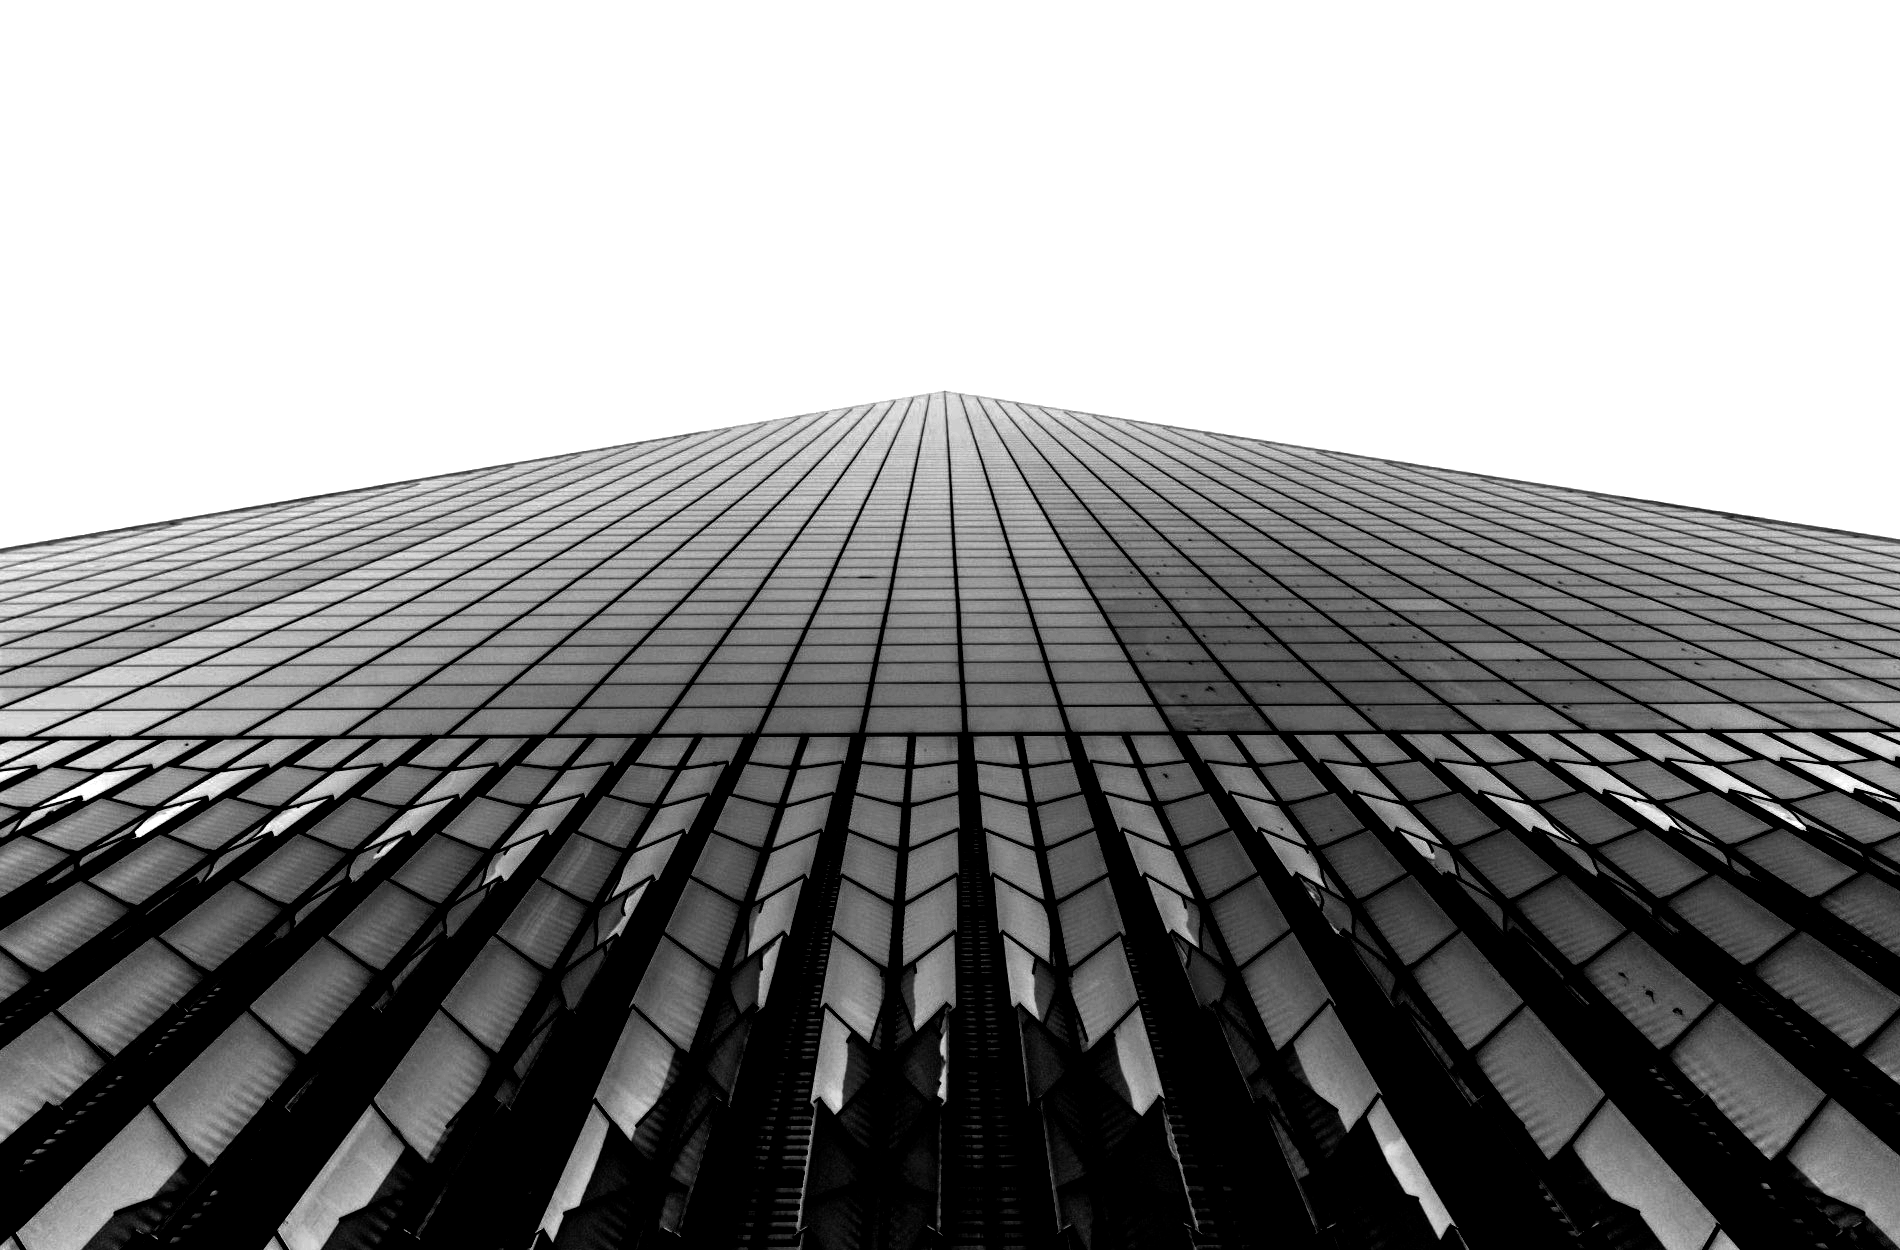
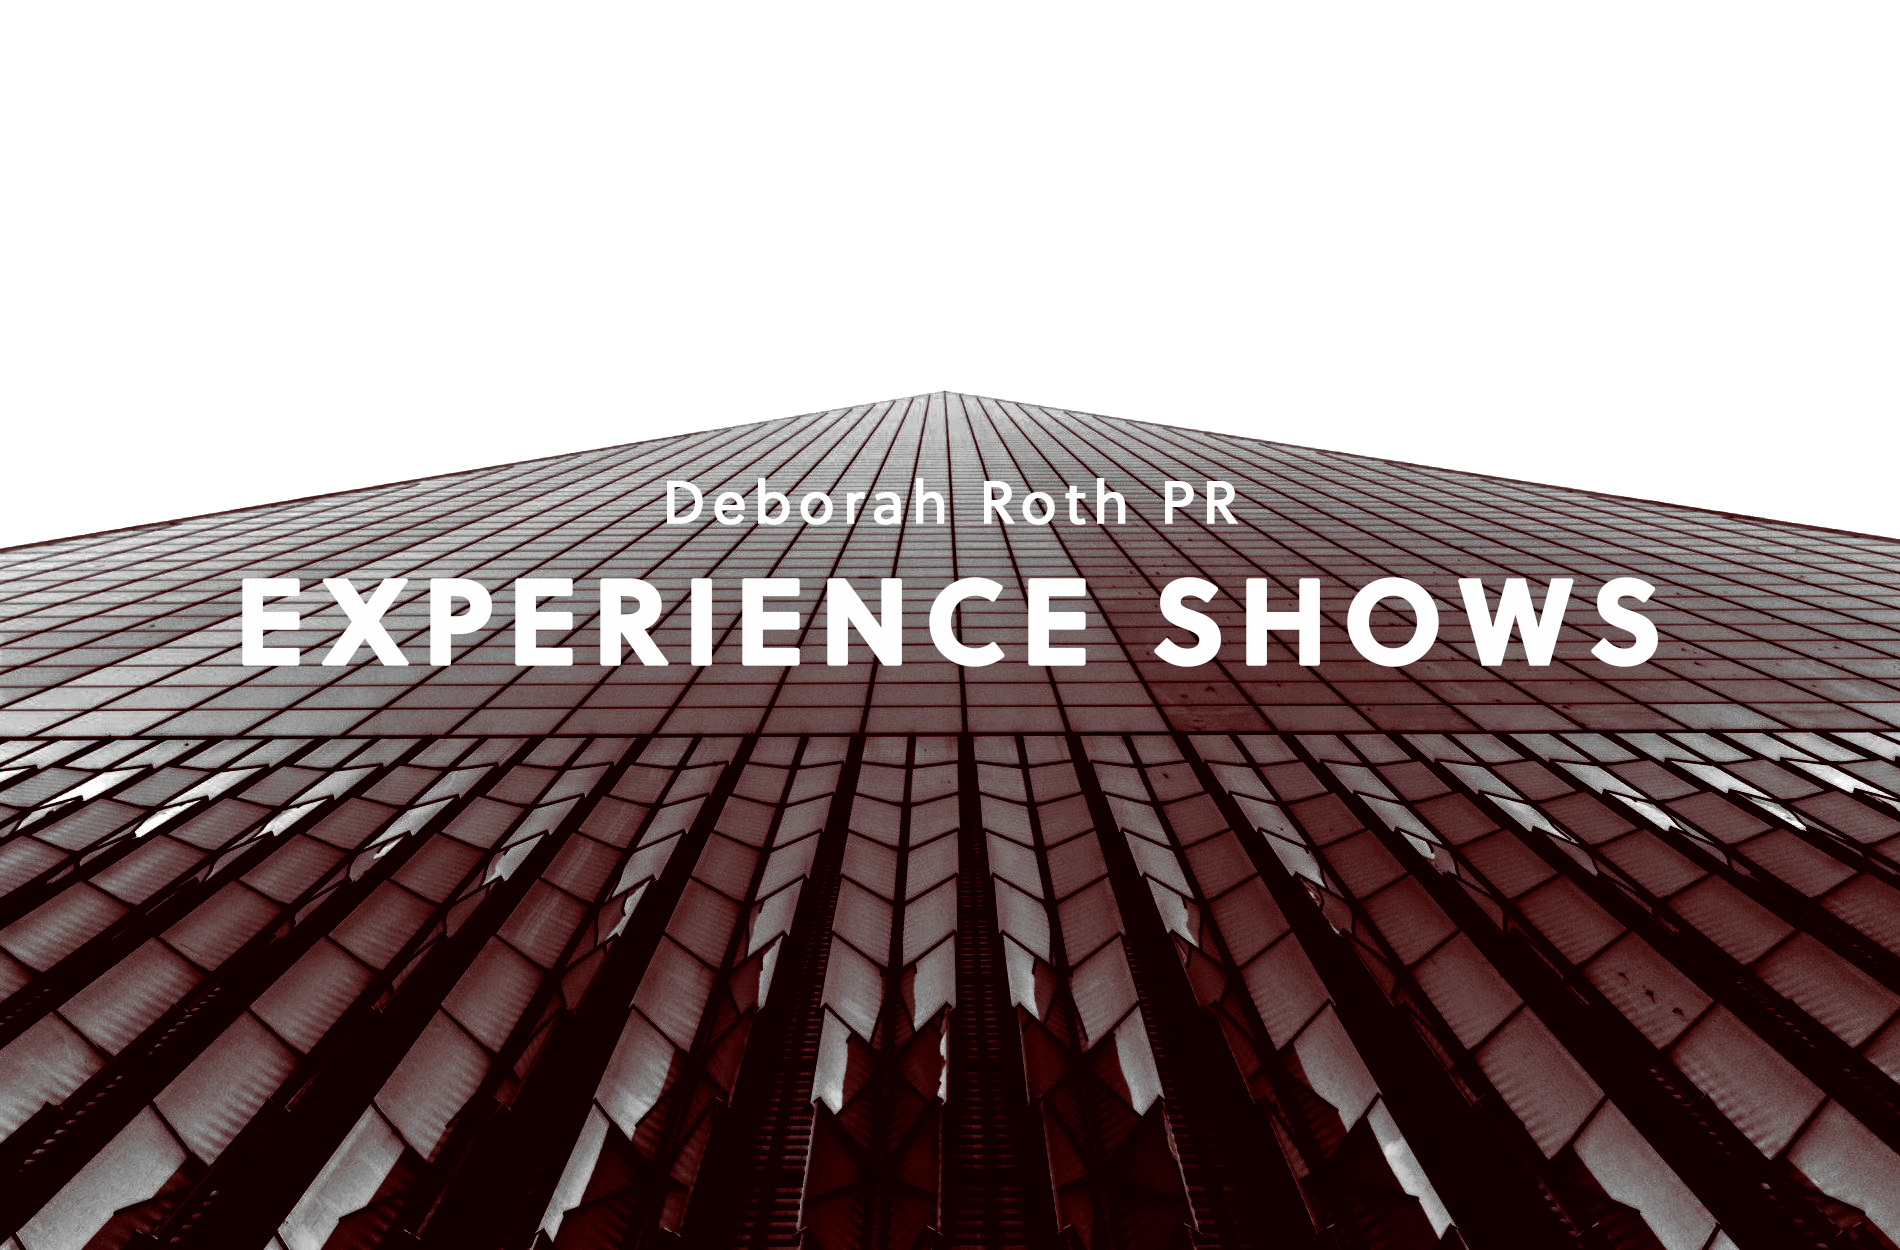
Add files via upload

diff --git a/debroth/Deb_Roth_website/Deb_Roth_website/css/style.css b/debroth/Deb_Roth_website/Deb_Roth_website/css/style.css
@@ -1,5 +1,7 @@
-.img-float {
-    float: left;
+.center {
+    display: block;
+    margin: 0 auto;
+    margin-bottom: 20px;
 }
 
 .page-scroll {
@@ -205,8 +207,8 @@ fieldset[disabled] .btn-xl:hover {
 }
 .navbar-custom .navbar-brand {
     color: #c02004;
-    font-family: "brush-script-std", sans-serif;
-    font-weight: 400;
+    font-family: "freight-micro-pro", sans-serif;
+    font-weight: 700;
 }
 .navbar-custom .navbar-brand.active,
 .navbar-custom .navbar-brand:active,
@@ -242,6 +244,20 @@ fieldset[disabled] .btn-xl:hover {
     color: #c02004;
     background-color: #e2dfde
 }
+@media (min-width:767px) {
+    .center {
+        display: block;
+        margin-bottom: 20px;
+        margin: 0 auto;
+    }
+    
+    .img-float {
+        float: center;
+        margin-bottom: 20px;
+    }
+}
+
+}
 @media (min-width:768px) {
     .navbar-custom {
         background-color: transparent;
@@ -251,23 +267,29 @@ fieldset[disabled] .btn-xl:hover {
         transition: padding .3s;
         border: none
     }
-    
+    .img-float {
+        float: left;
+        margin-bottom: 20px;
+    }
+    .center {
+        margin: auto;
+        width: 50%;
+        border: 3px solid green;
+        padding: 10px;
+    }
     .navbar-custom .navbar-brand {
         font-size: 2em;
         -webkit-transition: all .3s;
         -moz-transition: all .3s;
         transition: all .3s
     }
-    
     .navbar-custom .navbar-nav>.active>a {
         border-radius: 3px
     }
-    
     .navbar-custom.affix {
         background-color: #222;
         padding: 10px 0
     }
-    
     .navbar-custom.affix .navbar-brand {
         font-size: 1.5em
     }
@@ -291,7 +313,10 @@ header {
         padding-top: 300px;
         padding-bottom: 200px
     }
-    
+    .img-float {
+        float: left;
+        margin-bottom: 20px;
+    }
     header .intro-text .intro-lead-in {
         font-family: "soleil", "Helvetica Neue", Helvetica, Arial, sans-serif;
         font-size: 40px;
@@ -299,7 +324,6 @@ header {
         line-height: 40px;
         margin-bottom: 25px;
     }
-    
     header .intro-text .intro-heading {
         font-family: "soleil", "Helvetica Neue", Helvetica, Arial, sans-serif;
         text-transform: uppercase;
@@ -318,29 +342,24 @@ header {
         transition: padding .3s;
         border: none
     }
-    
     .navbar-custom .navbar-brand {
         font-size: 2em;
         -webkit-transition: all .3s;
         -moz-transition: all .3s;
         transition: all .3s
     }
-    
     .navbar-custom .navbar-nav>.active>a {
         border-radius: 3px
     }
-    
     .navbar-custom.affix {
         background-color: #cecece;
         color: #c02004;
         padding: 10px 0
     }
-    
     .navbar-custom.affix .navbar-brand {
         font-size: 1.5em;
         color: #c02004;
     }
-    
     .navbar-custom .nav li a,
     .navbar-custom .navbar-toggle {
         font-family: "soleil", "Helvetica Neue", Helvetica, Arial, sans-serif;
@@ -379,32 +398,31 @@ agency.min.css:530 .timeline .timeline-body>p,
     .timeline:before {
         left: 50%
     }
-    
     .timeline>li {
         margin-bottom: 100px;
         min-height: 100px
     }
-    
+    .img-float {
+        float: left;
+        margin-bottom: 20px;
+    }
     .timeline>li .timeline-panel {
         width: 55%;
         float: right;
         padding: 0 20px 20px 30px;
         text-align: left
     }
-    
     .timeline>li .timeline-image {
         width: 100px;
         height: 100px;
         left: 50%;
         margin-left: -50px
     }
-    
     .timeline>li .timeline-image h4 {
         font-size: 13px;
         margin-top: 16px;
         line-height: 18px
     }
-    
     .timeline>li.timeline-inverted>.timeline-panel {
         float: right;
         text-align: left;
@@ -416,17 +434,18 @@ agency.min.css:530 .timeline .timeline-body>p,
     .timeline>li.timeline-inverted>.timeline-panel {
         padding: 0 20px 20px
     }
-    
     .timeline>li {
         min-height: 150px
     }
-    
+    .img-float {
+        float: left;
+        margin-bottom: 20px;
+    }
     .timeline>li .timeline-image {
         width: 150px;
         height: 150px;
         margin-left: -75px
     }
-    
     .timeline>li .timeline-image h4 {
         font-size: 18px;
         margin-top: 30px;
@@ -437,25 +456,20 @@ agency.min.css:530 .timeline .timeline-body>p,
     .timeline>li {
         min-height: 170px
     }
-    
     .timeline>li .timeline-panel {
         padding: 0 20px 20px 100px
     }
-    
     .timeline>li .timeline-image {
         width: 170px;
         height: 170px;
         margin-left: -85px
     }
-    
     .timeline>li .timeline-image h4 {
         margin-top: 40px
     }
-    
     .timeline>li.timeline-inverted>.timeline-panel {
         padding: 0 100px 20px 20px
     }
-    
     png {
         float: left;
         margin: 0 0 10px 10px;
@@ -471,7 +485,10 @@ h3,
 h4,
 h5,
 h6 {
-    font-family: "soleil", Helvetica, Arial, sans-serif;
+    font-family: "soleil",
+    Helvetica,
+    Arial,
+    sans-serif;
     text-transform: uppercase;
     font-weight: 700;
 }
@@ -499,7 +516,11 @@ section#contact {
     color: #fff;
 }
 .btn-xl {
-    font-family: "soleil", "Helvetica Neue", Helvetica, Arial, sans-serif;
+    font-family: "soleil",
+    "Helvetica Neue",
+    Helvetica,
+    Arial,
+    sans-serif;
     text-transform: uppercase;
     font-weight: 700;
     color: #fff;
@@ -510,10 +531,14 @@ h2,
 h3,
 h5,
 h6 {
-    font-family: "soleil", "Helvetica Neue", Helvetica, Arial, sans-serif;
+    font-family: "soleil",
+    "Helvetica Neue",
+    Helvetica,
+    Arial,
+    sans-serif;
     text-transform: uppercase;
     font-weight: 700;
-    color: #7d7a76;
+    color: #c02004;
 }
 .btn-primary {
     color: #fff;

diff --git a/debroth/Deb_Roth_website/Deb_Roth_website/index.html b/debroth/Deb_Roth_website/Deb_Roth_website/index.html
@@ -85,8 +85,7 @@
     <header>
         <div class="container">
             <div class="intro-text">
-                <div class="intro-lead-in">Deborah Roth PR</div>
-                <div class="intro-heading">Experience shows</div>
+
                 <a href="#services" class="page-scroll fa-5x"><i class="fa fa-angle-double-down btn" aria-hidden="true"></i></a>
             </div>
         </div>
@@ -105,7 +104,7 @@
                     <ul class="timeline">
                         <li>
 
-                            <img class="png img-responsive img-float" src="img/Deb.png" alt="">
+                            <img class="png img-responsive img-float center" src="img/Deb.png" alt="">
 
                             <div class="timeline-panel">
                                 <div class="timeline-heading">
@@ -130,7 +129,7 @@
             <div class="row">
                 <div class="col-lg-12 text-center">
                     <h2 class="section-heading">Portfolio</h2>
-                    <h3 class="section-subheading">Companies infludenced by Deborah</h3>
+                    <h3 class="section-subheading text-muted">Companies influenced by Deborah</h3>
                 </div>
             </div>
             <div class="row">

diff --git a/debroth/Deb_Roth_website/Deb_Roth_website/css/agency.min.css b/debroth/Deb_Roth_website/Deb_Roth_website/css/agency.min.css
@@ -420,6 +420,13 @@ footer ul.quicklinks {
     }
 }
 
+.center {
+    margin: auto;
+    width: 50%;
+    border: 3px solid green;
+    padding: 10px;
+}
+
 .timeline {
     list-style: none;
     padding: 0;
@@ -635,7 +642,6 @@ section#contact {
     background-position: center;
     background-repeat: no-repeat
 }
-
 
 section#contact .section-heading {
     color: #fff
